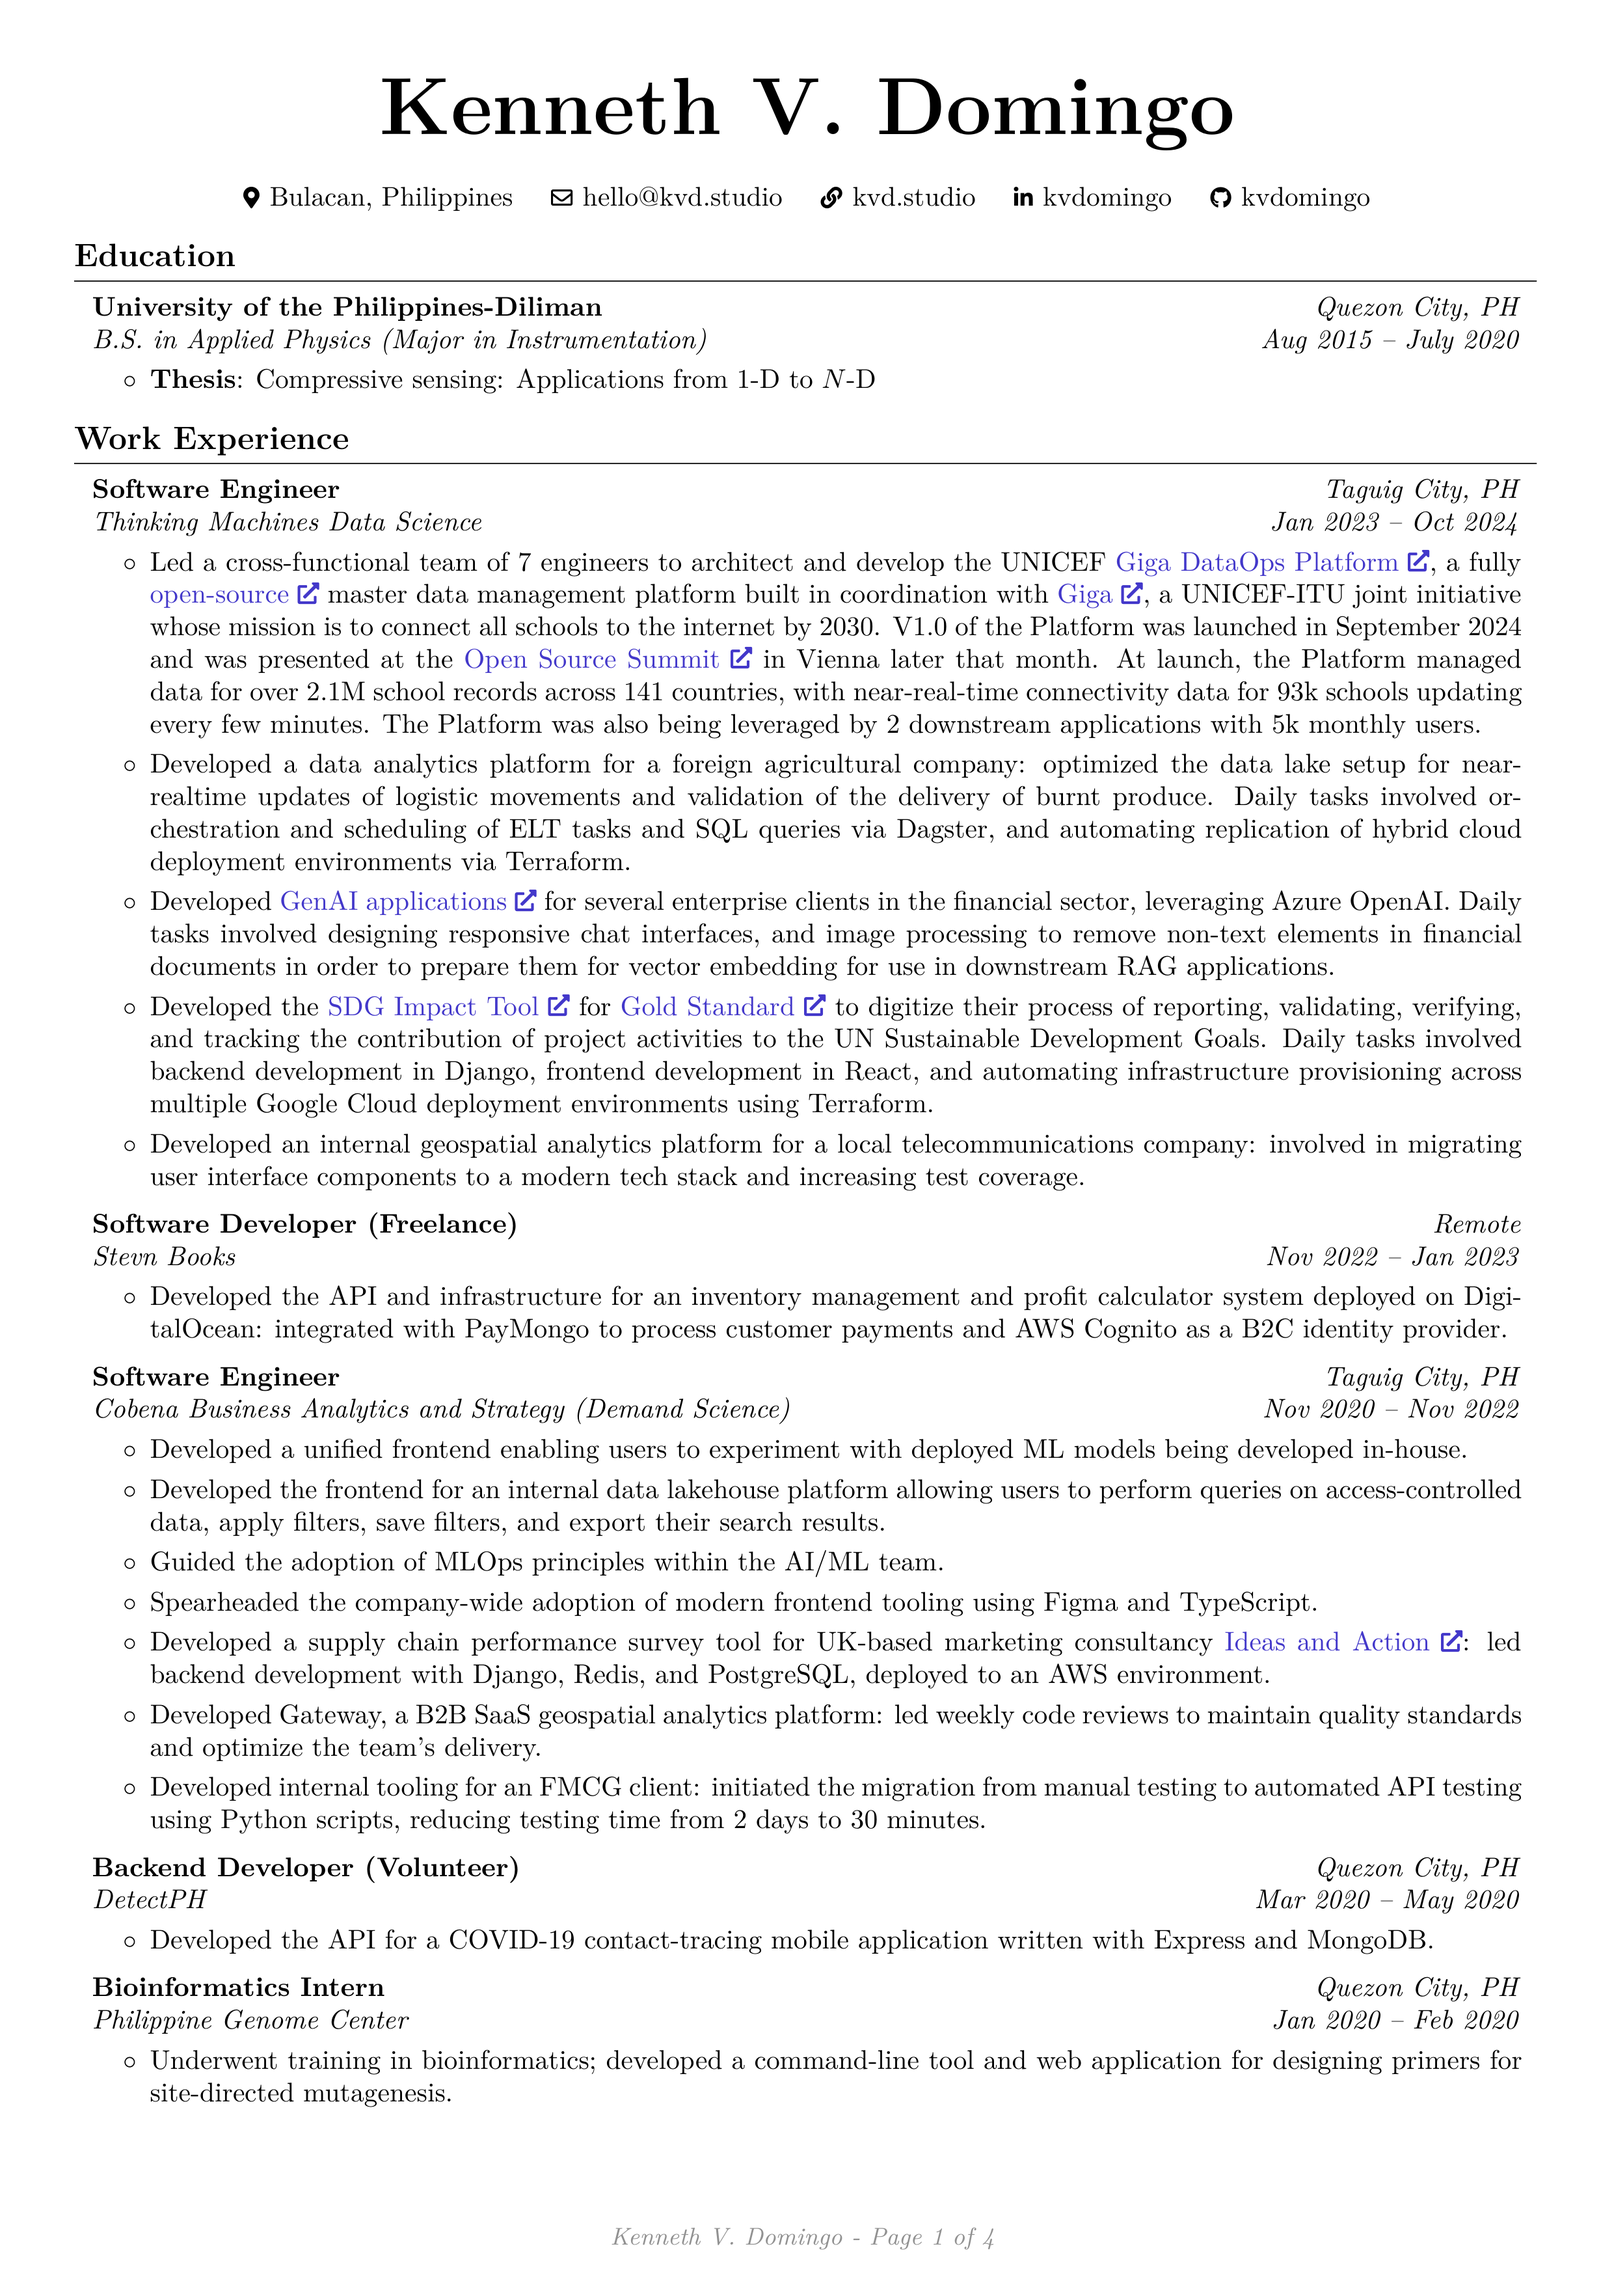
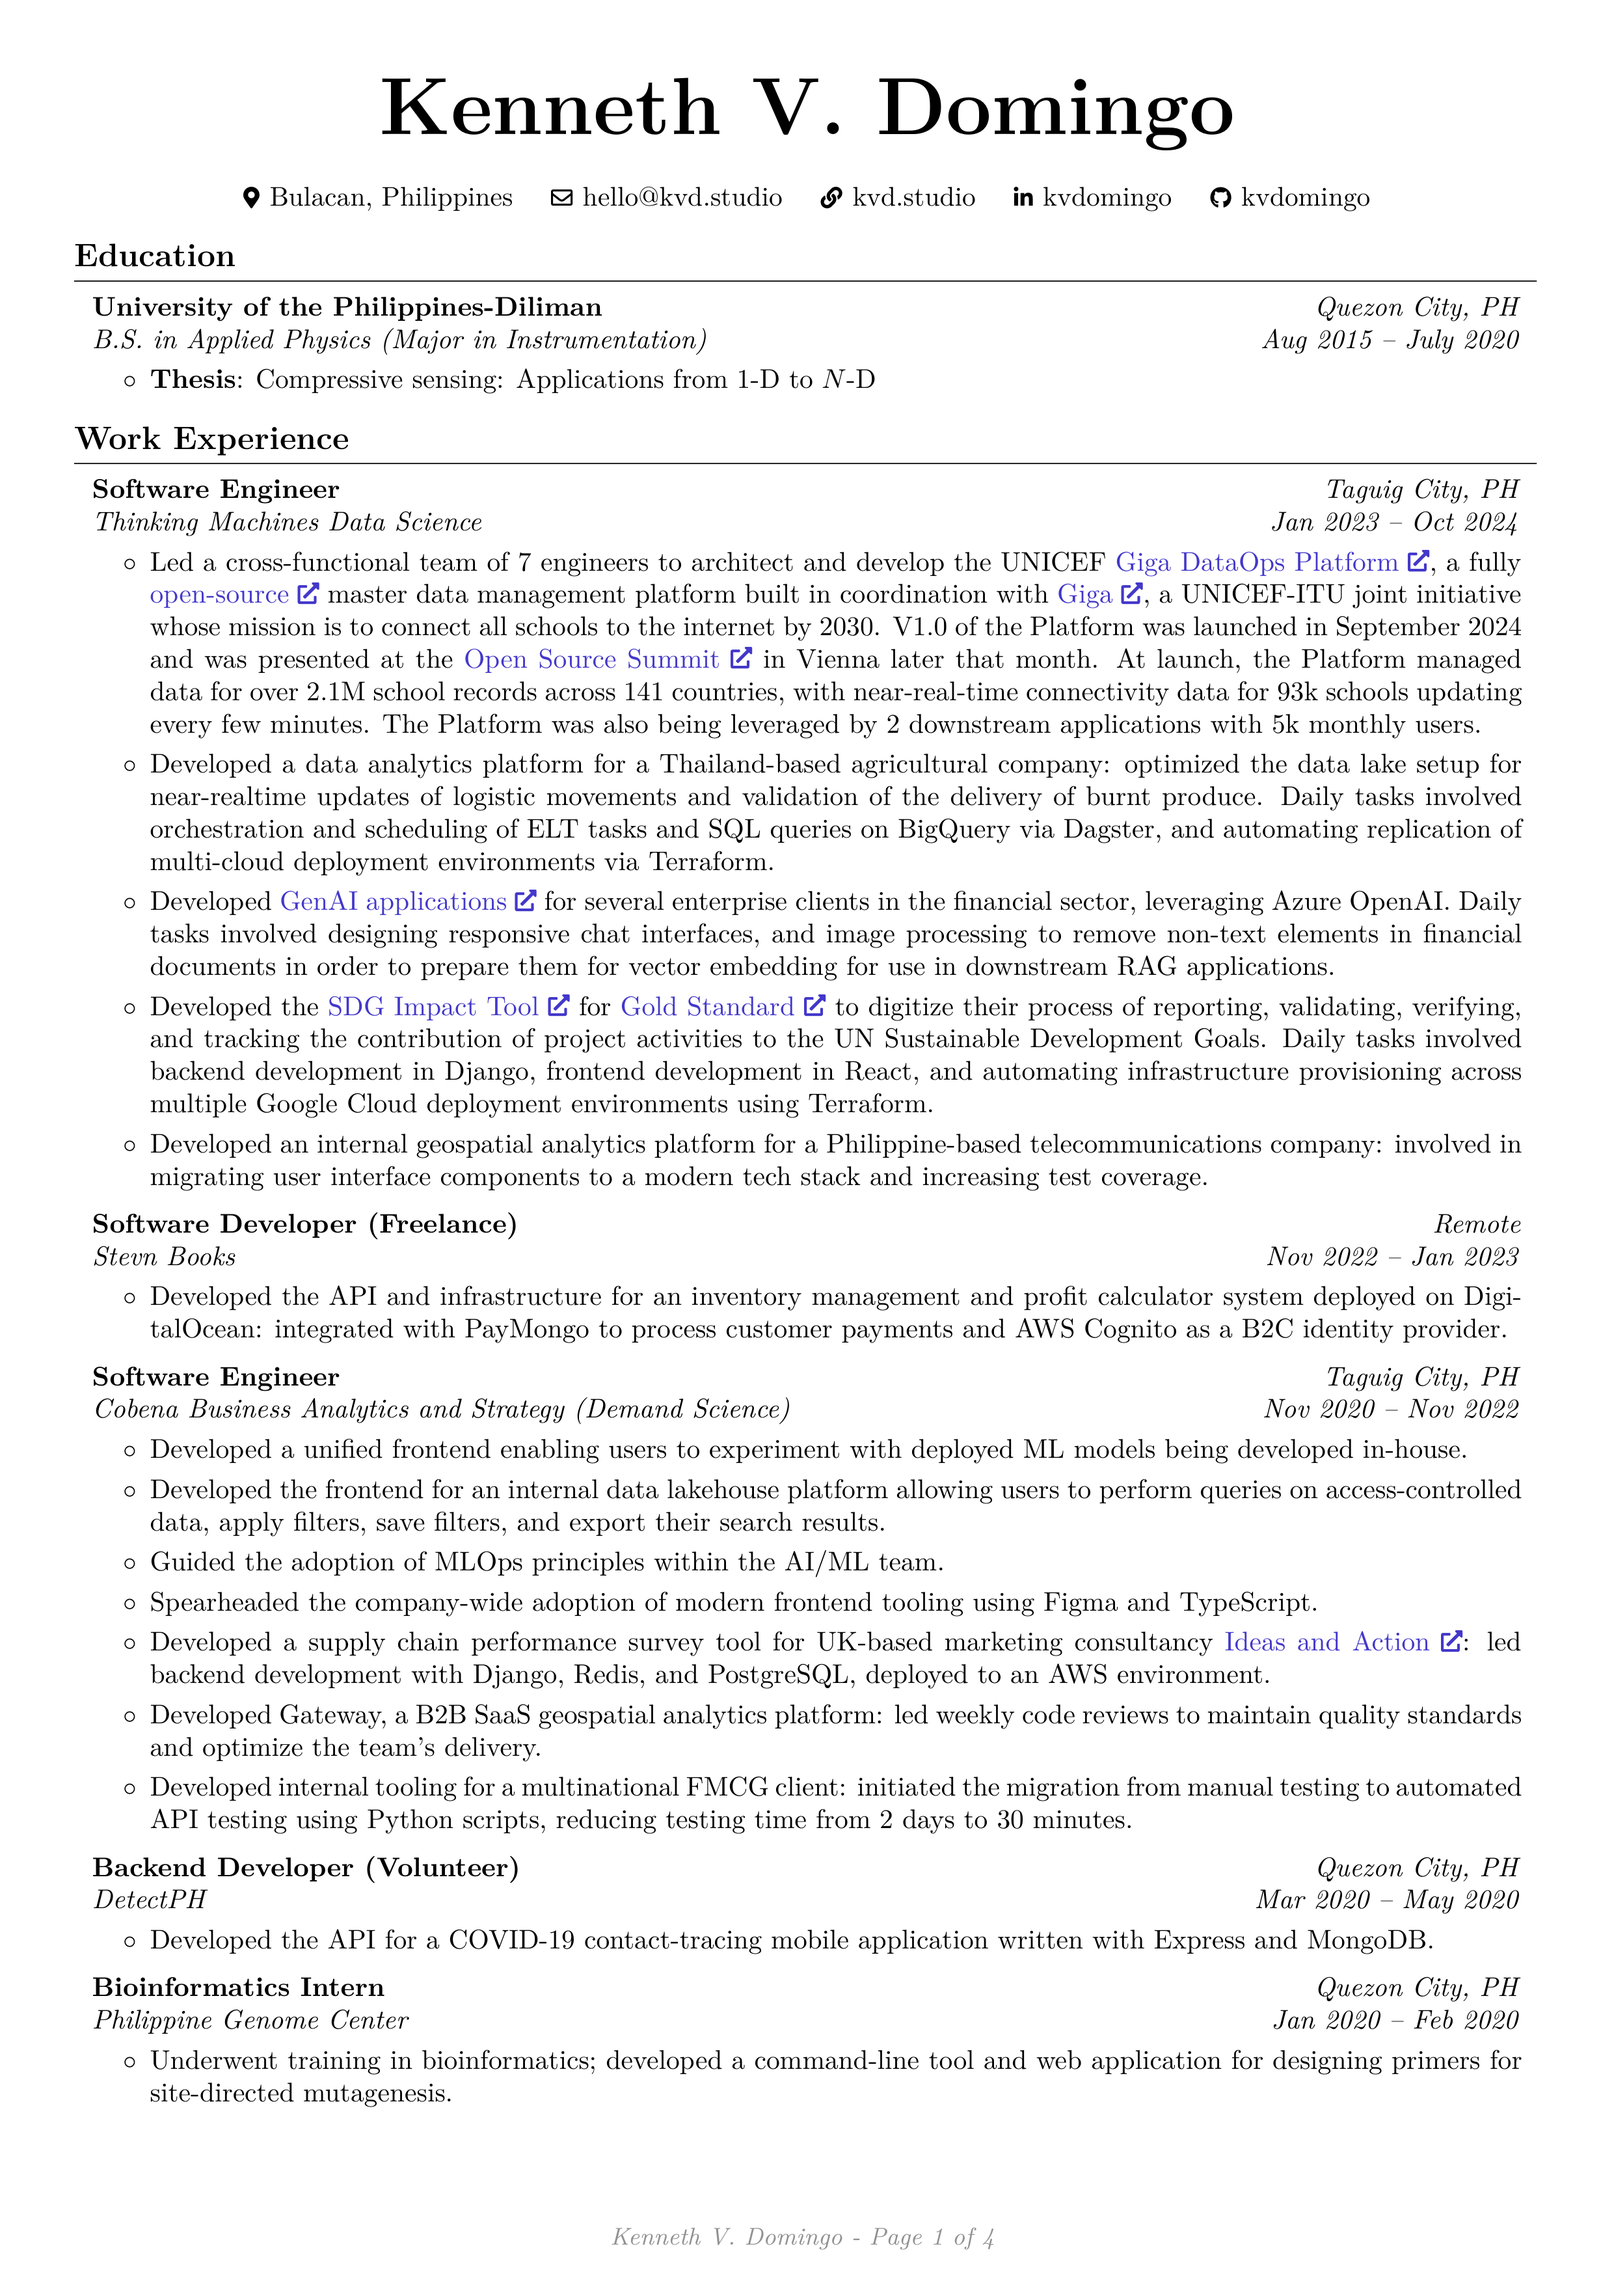
feat: update experience

diff --git a/rendercv_output/Kenneth_V._Domingo_CV.html b/rendercv_output/Kenneth_V._Domingo_CV.html
@@ -55,7 +55,7 @@
         <p>Led a cross-functional team of 7 engineers to architect and develop the UNICEF  <a href="https://sync.giga.global">Giga DataOps Platform</a>, a fully  <a href="https://github.com/unicef/giga-dagster">open-source</a> master data management platform built in coordination with <a href="https://giga.global">Giga</a>, a UNICEF-ITU joint initiative whose mission is to connect all schools to the internet by 2030. V1.0 of the Platform was launched in September 2024 and  was presented at the  <a href="https://osseu2024.sched.com/event/1iSnq/global-school-connectivity-dataops-platform-shilpa-arora-unicef">Open Source Summit</a>  in Vienna later that month. At launch, the Platform managed data for over 2.1M school records across 141  countries, with near-real-time connectivity data for 93k schools updating every few minutes. The Platform  was also being leveraged by 2 downstream applications with 5k monthly users.</p>
         </li>
         <li>
-        <p>Developed a data analytics platform for a foreign agricultural company: optimized the data lake setup for near-realtime updates of logistic movements and validation of the delivery of burnt produce. Daily tasks involved orchestration and scheduling of ELT tasks and SQL queries via Dagster, and automating replication of hybrid cloud deployment environments via Terraform.</p>
+        <p>Developed a data analytics platform for a Thailand-based agricultural company: optimized the data lake setup for near-realtime updates of logistic movements and validation of the delivery of burnt produce. Daily tasks involved orchestration and scheduling of ELT tasks and SQL queries on BigQuery via Dagster, and automating replication of multi-cloud deployment environments via Terraform.</p>
         </li>
         <li>
         <p>Developed <a href="https://thinkingmachin.es/llm-solutions/">GenAI applications</a> for several enterprise clients in  the financial sector, leveraging Azure OpenAI. Daily tasks involved designing responsive chat interfaces, and image processing to remove non-text elements in financial documents in order to prepare them for vector embedding for use in downstream RAG applications.</p>
@@ -64,7 +64,7 @@
         <p>Developed the <a href="https://sdg-tool.goldstandard.org/">SDG Impact Tool</a> for  <a href="https://goldstandard.org">Gold Standard</a> to digitize their process of reporting, validating, verifying, and tracking the contribution of project activities to the UN Sustainable Development Goals. Daily tasks involved backend development in Django, frontend development in React, and automating infrastructure provisioning across multiple Google Cloud deployment environments using Terraform.</p>
         </li>
         <li>
-        <p>Developed an internal geospatial analytics platform for a local telecommunications company: involved in migrating user interface components to a modern tech stack and increasing test coverage.</p>
+        <p>Developed an internal geospatial analytics platform for a Philippine-based telecommunications company: involved in migrating user interface components to a modern tech stack and increasing test coverage.</p>
         </li>
         </ul>
         <h2>Stevn Books, Software Developer (Freelance)</h2>
@@ -94,7 +94,7 @@
         <p>Developed Gateway, a B2B SaaS geospatial analytics platform: led weekly code reviews to maintain quality standards and optimize the team’s delivery.</p>
         </li>
         <li>
-        <p>Developed internal tooling for an FMCG client: initiated the migration from manual testing to automated API testing using Python scripts, reducing testing time from 2 days to 30 minutes.</p>
+        <p>Developed internal tooling for a multinational FMCG client: initiated the migration from manual testing to automated API testing using Python scripts, reducing testing time from 2 days to 30 minutes.</p>
         </li>
         </ul>
         <h2>DetectPH, Backend Developer (Volunteer)</h2>

diff --git a/rendercv_output/Kenneth_V._Domingo_CV.tex b/rendercv_output/Kenneth_V._Domingo_CV.tex
@@ -225,13 +225,13 @@
             \begin{highlights}
                 \item Led a cross-functional team of 7 engineers to architect and develop the UNICEF  \href{https://sync.giga.global}{Giga DataOps Platform}, a fully  \href{https://github.com/unicef/giga-dagster}{open-source} master data management platform built in coordination with \href{https://giga.global}{Giga}, a UNICEF-ITU joint initiative whose mission is to connect all schools to the internet by 2030. V1.0 of the Platform was launched in September 2024 and  was presented at the  \href{https://osseu2024.sched.com/event/1iSnq/global-school-connectivity-dataops-platform-shilpa-arora-unicef}{Open Source Summit}  in Vienna later that month. At launch, the Platform managed data for over 2.1M school records across 141  countries, with near-real-time connectivity data for 93k schools updating every few minutes. The Platform  was also being leveraged by 2 downstream applications with 5k monthly users.
 
-                \item Developed a data analytics platform for a foreign agricultural company: optimized the data lake setup for near-realtime updates of logistic movements and validation of the delivery of burnt produce. Daily tasks involved orchestration and scheduling of ELT tasks and SQL queries via Dagster, and automating replication of hybrid cloud deployment environments via Terraform.
+                \item Developed a data analytics platform for a Thailand-based agricultural company: optimized the data lake setup for near-realtime updates of logistic movements and validation of the delivery of burnt produce. Daily tasks involved orchestration and scheduling of ELT tasks and SQL queries on BigQuery via Dagster, and automating replication of multi-cloud deployment environments via Terraform.
 
                 \item Developed \href{https://thinkingmachin.es/llm-solutions/}{GenAI applications} for several enterprise clients in  the financial sector, leveraging Azure OpenAI. Daily tasks involved designing responsive chat interfaces, and image processing to remove non-text elements in financial documents in order to prepare them for vector embedding for use in downstream RAG applications.
 
                 \item Developed the \href{https://sdg-tool.goldstandard.org/}{SDG Impact Tool} for  \href{https://goldstandard.org}{Gold Standard} to digitize their process of reporting, validating, verifying, and tracking the contribution of project activities to the UN Sustainable Development Goals. Daily tasks involved backend development in Django, frontend development in React, and automating infrastructure provisioning across multiple Google Cloud deployment environments using Terraform.
 
-                \item Developed an internal geospatial analytics platform for a local telecommunications company: involved in migrating user interface components to a modern tech stack and increasing test coverage.
+                \item Developed an internal geospatial analytics platform for a Philippine-based telecommunications company: involved in migrating user interface components to a modern tech stack and increasing test coverage.
 
             \end{highlights}
         \end{onecolentry}
@@ -281,7 +281,7 @@
 
                 \item Developed Gateway, a B2B SaaS geospatial analytics platform: led weekly code reviews to maintain quality standards and optimize the team’s delivery.
 
-                \item Developed internal tooling for an FMCG client: initiated the migration from manual testing to automated API testing using Python scripts, reducing testing time from 2 days to 30 minutes.
+                \item Developed internal tooling for a multinational FMCG client: initiated the migration from manual testing to automated API testing using Python scripts, reducing testing time from 2 days to 30 minutes.
 
             \end{highlights}
         \end{onecolentry}

diff --git a/rendercv_output/Kenneth_V._Domingo_CV.md b/rendercv_output/Kenneth_V._Domingo_CV.md
@@ -23,13 +23,13 @@
 - Taguig City, PH
 - Led a cross-functional team of 7 engineers to architect and develop the UNICEF  [Giga DataOps Platform](https://sync.giga.global), a fully  [open-source](https://github.com/unicef/giga-dagster) master data management platform built in coordination with [Giga](https://giga.global), a UNICEF-ITU joint initiative whose mission is to connect all schools to the internet by 2030. V1.0 of the Platform was launched in September 2024 and  was presented at the  [Open Source Summit](https://osseu2024.sched.com/event/1iSnq/global-school-connectivity-dataops-platform-shilpa-arora-unicef)  in Vienna later that month. At launch, the Platform managed data for over 2.1M school records across 141  countries, with near-real-time connectivity data for 93k schools updating every few minutes. The Platform  was also being leveraged by 2 downstream applications with 5k monthly users.
 
-- Developed a data analytics platform for a foreign agricultural company: optimized the data lake setup for near-realtime updates of logistic movements and validation of the delivery of burnt produce. Daily tasks involved orchestration and scheduling of ELT tasks and SQL queries via Dagster, and automating replication of hybrid cloud deployment environments via Terraform.
+- Developed a data analytics platform for a Thailand-based agricultural company: optimized the data lake setup for near-realtime updates of logistic movements and validation of the delivery of burnt produce. Daily tasks involved orchestration and scheduling of ELT tasks and SQL queries on BigQuery via Dagster, and automating replication of multi-cloud deployment environments via Terraform.
 
 - Developed [GenAI applications](https://thinkingmachin.es/llm-solutions/) for several enterprise clients in  the financial sector, leveraging Azure OpenAI. Daily tasks involved designing responsive chat interfaces, and image processing to remove non-text elements in financial documents in order to prepare them for vector embedding for use in downstream RAG applications.
 
 - Developed the [SDG Impact Tool](https://sdg-tool.goldstandard.org/) for  [Gold Standard](https://goldstandard.org) to digitize their process of reporting, validating, verifying, and tracking the contribution of project activities to the UN Sustainable Development Goals. Daily tasks involved backend development in Django, frontend development in React, and automating infrastructure provisioning across multiple Google Cloud deployment environments using Terraform.
 
-- Developed an internal geospatial analytics platform for a local telecommunications company: involved in migrating user interface components to a modern tech stack and increasing test coverage.
+- Developed an internal geospatial analytics platform for a Philippine-based telecommunications company: involved in migrating user interface components to a modern tech stack and increasing test coverage.
 
 
 ## Stevn Books, Software Developer (Freelance)
@@ -53,7 +53,7 @@
 
 - Developed Gateway, a B2B SaaS geospatial analytics platform: led weekly code reviews to maintain quality standards and optimize the team’s delivery.
 
-- Developed internal tooling for an FMCG client: initiated the migration from manual testing to automated API testing using Python scripts, reducing testing time from 2 days to 30 minutes.
+- Developed internal tooling for a multinational FMCG client: initiated the migration from manual testing to automated API testing using Python scripts, reducing testing time from 2 days to 30 minutes.
 
 
 ## DetectPH, Backend Developer (Volunteer)
